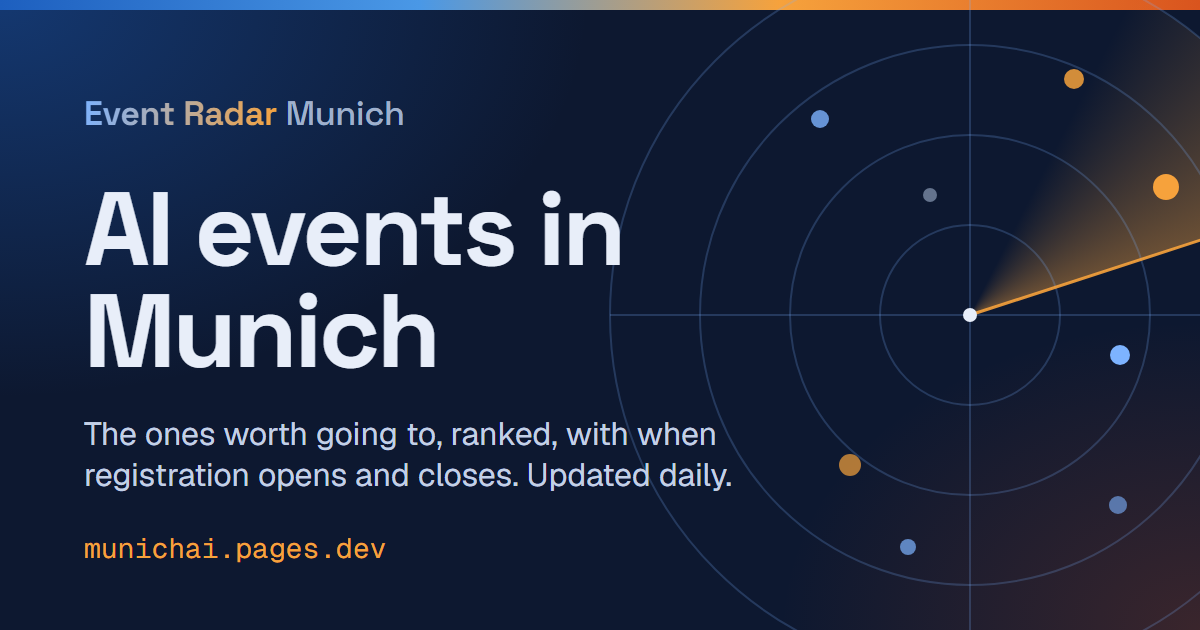
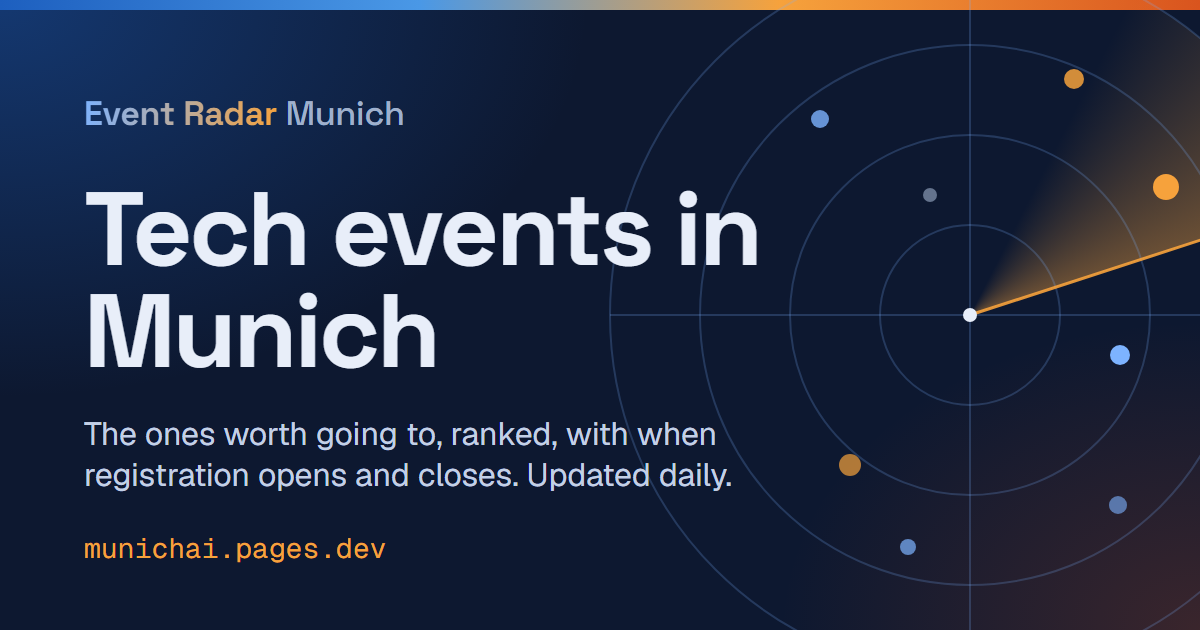
Follow UnternehmerTUM as a community and call the board tech events
Alp decided both open items of ADR 0021. UnternehmerTUM is community,
not anchor (D10): its startup events rank by their topic, and an event
of its with no topic stays C. The dry run, re-run read-only, moves six
of its events from B back to C: A 22, B 23, C 16.

The board now ranks startup, career and community events beside AI
ones, so the title, heading and link preview say "Tech events in
Munich" and the description names what the ranking measures.

Changed region(s): [[0.0617, 0.3016, 0.6475, 0.4222]]

diff --git a/site/index.html b/site/index.html
@@ -3,20 +3,20 @@
 <head>
   <meta charset="utf-8">
   <meta name="viewport" content="width=device-width, initial-scale=1, viewport-fit=cover">
-  <title>AI events in Munich | Event Radar</title>
-  <meta name="description" content="Every AI, machine learning and tech startup event in Munich worth going to, ranked, with when registration opens and closes. Updated daily.">
+  <title>Tech events in Munich | Event Radar</title>
+  <meta name="description" content="The AI, startup and career events in Munich worth going to for the people you meet there, ranked, with when registration opens and closes. Updated daily.">
   <link rel="canonical" href="https://munichai.pages.dev/">
   <link rel="icon" href="favicon.svg" type="image/svg+xml">
   <!-- The link preview on LinkedIn, WhatsApp and elsewhere (https://ogp.me); tools/share_image.py draws the image. -->
   <meta property="og:type" content="website">
   <meta property="og:site_name" content="Event Radar Munich">
-  <meta property="og:title" content="AI events in Munich">
+  <meta property="og:title" content="Tech events in Munich">
   <meta property="og:description" content="The ones worth going to, ranked, with when registration opens and closes. Updated daily.">
   <meta property="og:url" content="https://munichai.pages.dev/">
   <meta property="og:image" content="https://munichai.pages.dev/share.png">
   <meta property="og:image:width" content="1200">
   <meta property="og:image:height" content="630">
-  <meta property="og:image:alt" content="Event Radar Munich: AI events in Munich, ranked, with registration windows">
+  <meta property="og:image:alt" content="Event Radar Munich: tech events in Munich, ranked, with registration windows">
   <meta name="twitter:card" content="summary_large_image">
   <link rel="preload" href="vendor/fonts/geist-v5-latin.woff2" as="font" type="font/woff2" crossorigin>
   <link rel="stylesheet" href="style.css">
@@ -44,7 +44,7 @@
   <div class="hero">
     <img class="hero-photo" src="munich-1600.webp" srcset="munich-960.webp 960w, munich-1600.webp 1600w" sizes="100vw" alt="" width="1600" height="1078">
     <div class="hero-inner">
-      <h1>AI events in Munich</h1>
+      <h1>Tech events in Munich</h1>
       <p class="hero-sub" id="hero-sub">&nbsp;</p>
     </div>
     <p class="hero-credit"><a href="https://commons.wikimedia.org/wiki/File:Munich_skyline.jpg" target="_blank" rel="noopener">Photo: Stefan Kühn</a>, <a href="https://creativecommons.org/licenses/by-sa/3.0/" target="_blank" rel="noopener">CC BY-SA 3.0</a></p>

diff --git a/tools/share-image.html b/tools/share-image.html
@@ -58,7 +58,7 @@
   </svg>
   <div class="copy">
     <div class="brand"><b>Event Radar</b> <span>Munich</span></div>
-    <h1>AI events in Munich</h1>
+    <h1>Tech events in Munich</h1>
     <p>The ones worth going to, ranked, with when registration opens and closes. Updated daily.</p>
   </div>
   <div class="url">munichai.pages.dev</div>

diff --git a/docs/decisions/0021-network-value.md b/docs/decisions/0021-network-value.md
@@ -48,8 +48,8 @@ All read-only; the comparison is in the records repository,
 
 | Standing | Meaning | Organisers (seed, 2026-11-08) |
 |---|---|---|
-| `anchor` | A community the board exists for (`radar/clubs.md` Tier 1 and the joint institutions). Every event in scope and at least B; a networking event of theirs is A whatever its topic | CDTM, TUM.ai, START Munich, UnternehmerTUM, MCML |
-| `community` | Runs its own events and was chosen by a person. Every event in scope | the other seed organisers that run their own events |
+| `anchor` | A community the board exists for (`radar/clubs.md` Tier 1 and the joint institutions). Every event in scope and at least B; a networking event of theirs is A whatever its topic | CDTM, TUM.ai, START Munich, MCML |
+| `community` | Runs its own events and was chosen by a person. Every event in scope | the other seed organisers that run their own events, UnternehmerTUM among them (D10) |
 | `calendar` | Lists many organisers' events, or nobody curated it yet. Its events need a topic | TUM central events, BAdW, AI-HUB@LMU, Munich Startup, baiosphere; every intake organiser until the seed names it |
 
 ## The judgment, `judgments-v4`
@@ -88,12 +88,13 @@ kind and title.
 | 1 | Rank by topic strength, networking and organiser standing, as ordered rules whose deciding rule is the last tier reason | A points score per axis: the thresholds trade one axis against another invisibly, and a reason list of points does not say why. Keeping AI relevance as the axis: the measured gap |
 | 2 | AI `some` and `tech` are weak topics: B at a curated organiser, C at a calendar. This is health check fix 1 in general form: a conference with AI as one theme at a general calendar is C | A rule for conferences only: the same error came as a programme (Awareness week) and a symposium. Tech as strong: TUM central's engineering talks would fill B |
 | 3 | Standing is one column, `organiser.standing`, default `calendar`, owned by the seed for every organiser the seed names by domain and name, also an intake's | Three booleans: anchor implies community. The intake profile deciding it: a model would decide trust (invariant 2). Default `community`: AHA Bayern's 40 off-topic events (concerts, children's labs) would be stored as C |
-| 4 | `startup_focus` (organiser kind `startup`, ADR 0011 D4) goes: UnternehmerTUM is an anchor, Munich Startup a calendar whose events the judgment calls startup | Keeping it beside standing: two flags that put events in scope, and Munich Startup's listing items are other organisers' events |
+| 4 | `startup_focus` (organiser kind `startup`, ADR 0011 D4) goes: UnternehmerTUM is a community, Munich Startup a calendar whose events the judgment calls startup | Keeping it beside standing: two flags that put events in scope, and Munich Startup's listing items are other organisers' events |
 | 5 | `ai_focus` stays: it says what an organiser's thin texts are about, not how much the radar trusts it | Folding it into standing: MCML is an anchor and AI-focused, Munich NLP a community and AI-focused |
 | 6 | `networking` and `event` are judgment answers, read from the page as a person would | Title words only: "Climate Coffee" and "Homecoming" name no format, and a news page names no format either. A new kind: one kind per event cannot be both a talk and networking |
 | 7 | A news page is a stored drop, `not_event`, labelled "Not an event" on the page | Unstored, like off topic: a false judgment would delete an event silently, against invariant 5 |
 | 8 | An anchor's networking event is A whatever its topic | B only: CDTM's Open Day and MCML's Stammtisch are the board's purpose |
 | 9 | Off-topic and audience drops stay unstored (ADR 0011 D3, ADR 0012); the harvest log lists each, title and organiser, so a drop is visible to the maintainer | Storing them behind a toggle: ADR 0011 D3's reason holds, every visitor would download 150 rows of concerts and lab tours |
+| 10 | UnternehmerTUM is `community` (Alp, 2026-11-09): its startup events rank by their topic, and an event of its with no topic is C | `anchor`, the plan of 2026-11-06: its film evening, Olympia talk and textile forum would sit in B beside CDTM's Open Day |
 
 ## Check
 
@@ -110,19 +111,25 @@ kind and title.
 
 Dry run, read-only, over the hosted observations and their `judgments-v3` answers with the
 stored events' stars (`network_dump.py` in the records repository, standing from this
-branch's seed): 30 of 389 groups move, none leaves or joins.
+branch's seed): 24 of 389 groups move, none leaves or joins.
 
 | | A | B | C | off topic | past |
 |---|---|---|---|---|---|
 | `event-splits` (bd77fc3) | 23 | 13 | 25 | 150 | 146 |
-| this branch | 22 | 29 | 10 | 145 | 151 |
+| this branch, UnternehmerTUM `anchor` (2026-11-08) | 22 | 29 | 10 | 145 | 151 |
+| this branch, UnternehmerTUM `community` (D10, re-run 2026-11-09) | 22 | 23 | 16 | 145 | 151 |
+
+The 2026-11-09 re-run with UnternehmerTUM as `anchor` gave the 2026-11-08 counts again, so
+the last row differs from the one above by D10 alone: six UnternehmerTUM events stay C, the
+moves below are the final ones.
 
 | Move | Events |
 |---|---|
 | A to C, AI as a side theme on a general calendar | Awareness week (mental health), Munich Vascular Conference, Patientensymposium: Herz aus dem Takt, W-JAX 2026, bidt Digital Transformation Research Conference |
 | C to A | CDTM Open Day (career, Open Day), Women Startup Pitch Night & Award Ceremony and Women Startup Award Pitch Night (UnternehmerTUM), Mobility Experts Stammtisch (UnternehmerTUM) |
 | C to B, a strong topic | CDTM International Stories, CDTM Climate Coffee, Opportunity Hunters Talks (12.11), Industrial Edge Workshops for Startups, TUM IDEAward, Women in STEM Round Table x G+D, TUM Alumni Homecoming, Welcome@TUM |
-| C to B, the anchor floor only | MCML Stammtisch, Road to START Summit (paid), Opportunity Hunters Talks (19.11, 26.11, not yet judged), and four UnternehmerTUM events with no topic: "How reel is it? The Substance", "Inspiration & Talk: Was Olympia für München in Gang setzen kann", CIRCULAR REPUBLIC Textile Forum, "Start and Spread Winter 2024" |
+| C to B, the anchor floor only | MCML Stammtisch, Road to START Summit (paid) |
+| C, unchanged by D10 | four UnternehmerTUM events with no topic ("How reel is it? The Substance", "Inspiration & Talk: Was Olympia für München in Gang setzen kann", CIRCULAR REPUBLIC Textile Forum, "Start and Spread Winter 2024") and Opportunity Hunters Talks of 19.11 and 26.11, not yet judged; as startup talks they reach B once judged, like the one of 12.11 |
 | off topic to past, now stored | 4 START Munich events, 1 CDTM |
 
 The news pages ("TUM opens Convergence Center", "Lars Klingbeil visits TUM") keep their
@@ -140,7 +147,3 @@ Bavaria, a large share of a harvest that used 47 of its 60 minutes on 2026-11-02
 `/p/<slug>`, which no listing rule follows; SCE's events page redirects to its Eventbrite
 organiser page, whose listing would follow Eventbrite's `/d/` city pages. They belong with
 the listing readers, measured against the harvest budget.
-
-Open for Alp: UnternehmerTUM as `anchor` (the plan of 2026-11-06) puts its four events
-with no topic at B; as `community` they would be C, and its startup events would keep B
-and A by their topic.
